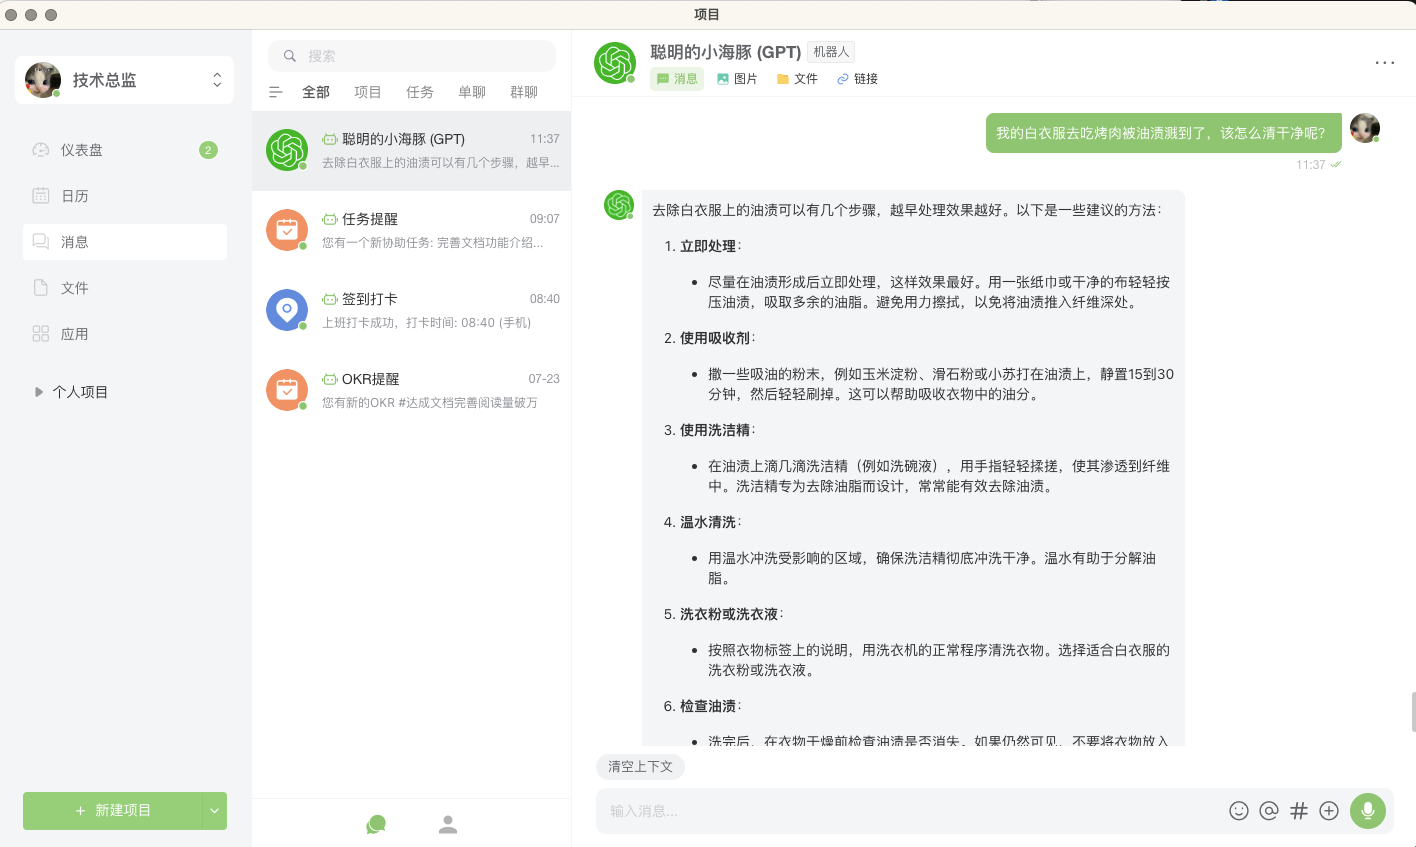
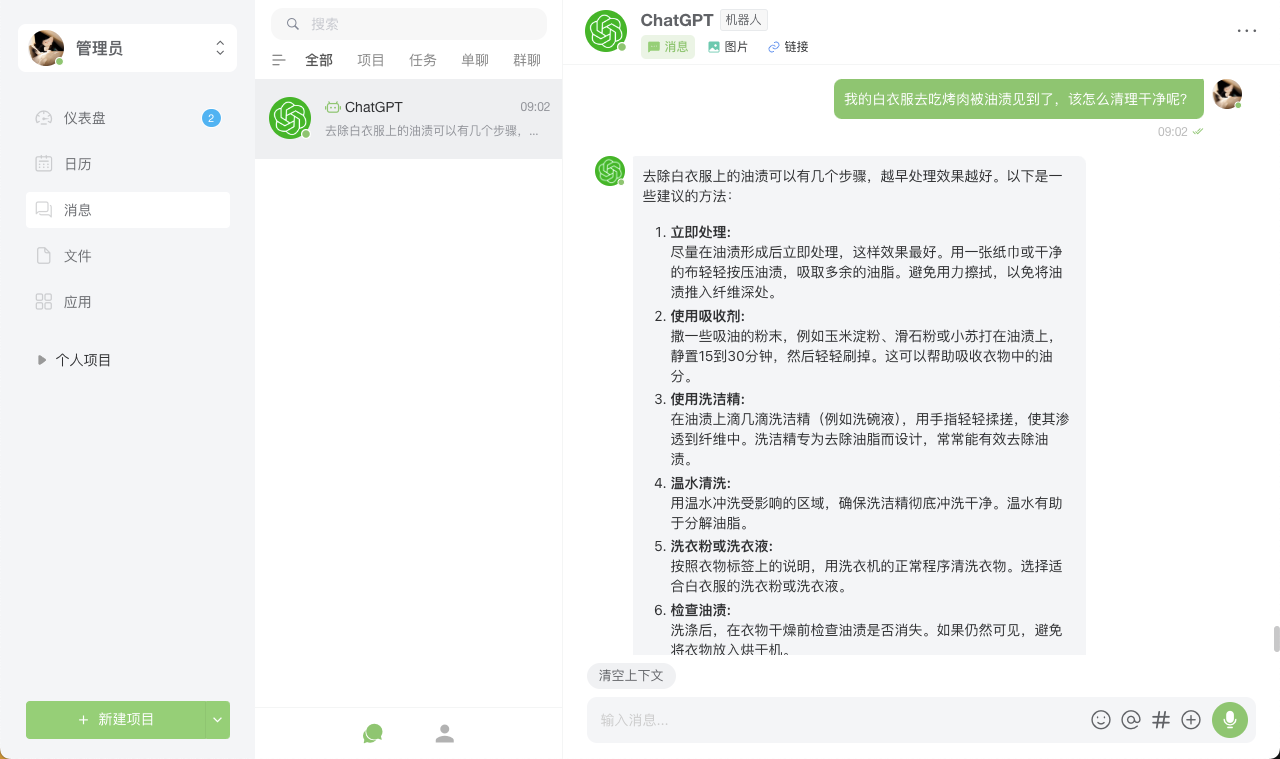
perf：内容优化

diff --git a/docs/zh/basic/Aiass-dootask.md b/docs/zh/basic/Aiass-dootask.md
@@ -2,8 +2,8 @@
 
 在技术和信息的海洋中，AI助手就像一座灯塔，为用户提供清晰的指导和支持。无论是提供创意支持，还是解答广泛的问题，都能提供及时而准确的帮助。
 
-::: tip  🐬 聪明的小海豚（dootask的AI助手）
-“聪明的小海豚在这里为你服务！如果你有任何问题或需要建议，尽管来找我吧！✨”
+::: tip  🐬 AI助手
+“AI助手在这里为你服务！如果你有任何问题或需要建议，尽管来找我吧！✨”
 :::
 
 ## AI助手：你的全天候知识伙伴
@@ -31,17 +31,13 @@
 - **技术资讯**：提供最新的技术趋势、框架更新和行业动态，帮助用户对领域内的最新了解。
 - **知识解答**：解答用户在编程、算法、软件开发等方面的问题，提供详尽的解释和示例。
 
-![新任务提醒](/images/aiass_2.png)
-    
-![新任务提醒](/images/aiass_3.png)
-
+![新任务提醒](/images/aiass_7.png)
 
 ### 日常助手
 - **多语言支持**：支持多种语言交流，能够帮助来自不同语言背景的用户。
 - **时间管理**：提供时间管理技巧和工具建议，帮助用户提高工作效率。
 - **生活优化**：分享生活小窍门和健康建议，帮助用户在繁忙的生活中保持平衡。
 
-![新任务提醒](/images/aiass_7.png)
 
 
 

diff --git a/docs/en/basic/Aiass-dootask.md b/docs/en/basic/Aiass-dootask.md
@@ -2,8 +2,8 @@
 
 In the ocean of technology and information, the AI Assistant serves as a lighthouse, providing clear guidance and support for users. Whether providing creative support or answering a wide range of questions, it offers timely and accurate help.
 
-::: tip 🐬 Smart Dolphin (DooTask's AI Assistant)
-"Smart Dolphin is here to serve you! If you have any questions or need suggestions, feel free to ask me! ✨"
+::: tip  🐬 AI Assistant
+“The AI Assistant is here to help! If you have any questions or need advice, feel free to reach out to me! ✨”
 :::
 
 ## AI Assistant: Your all-weather knowledge partner
